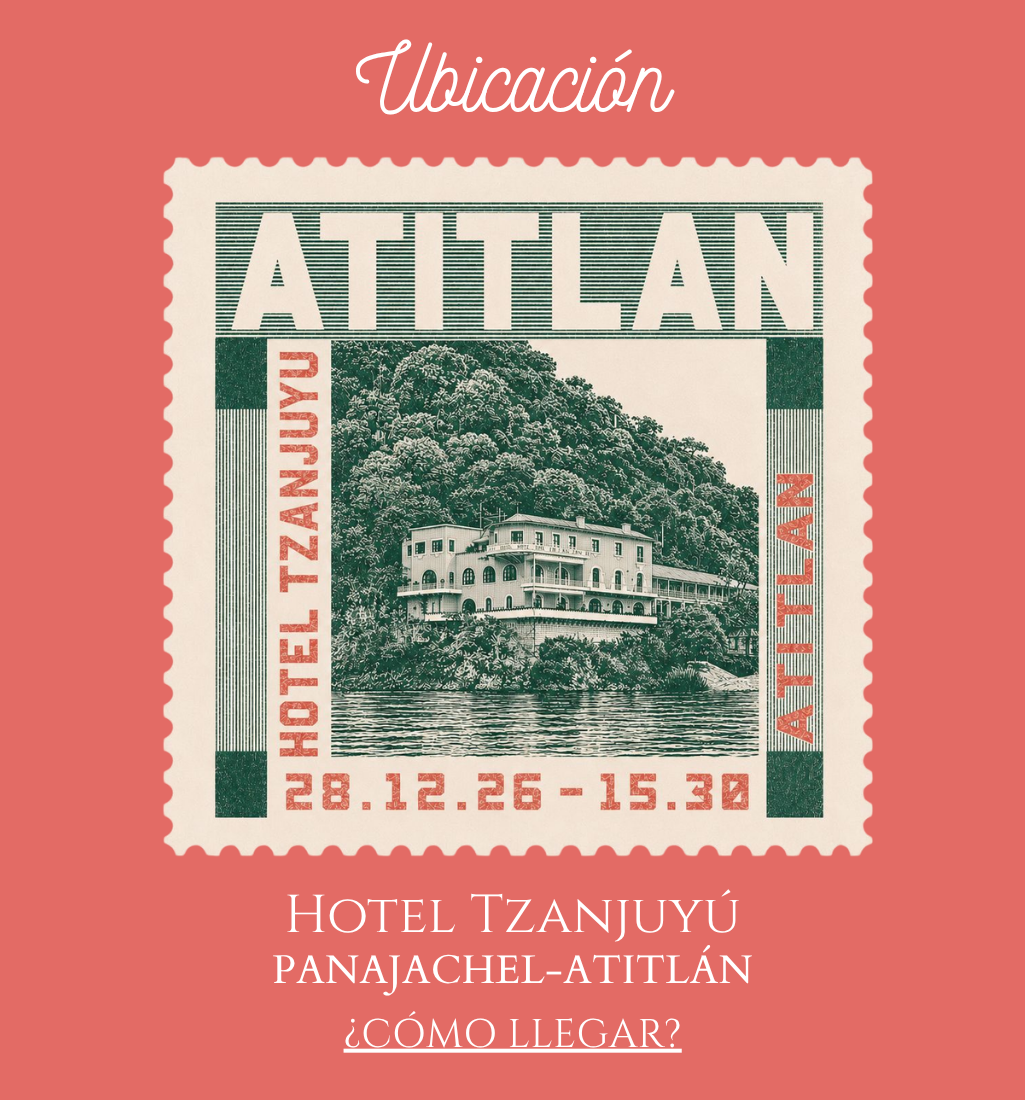
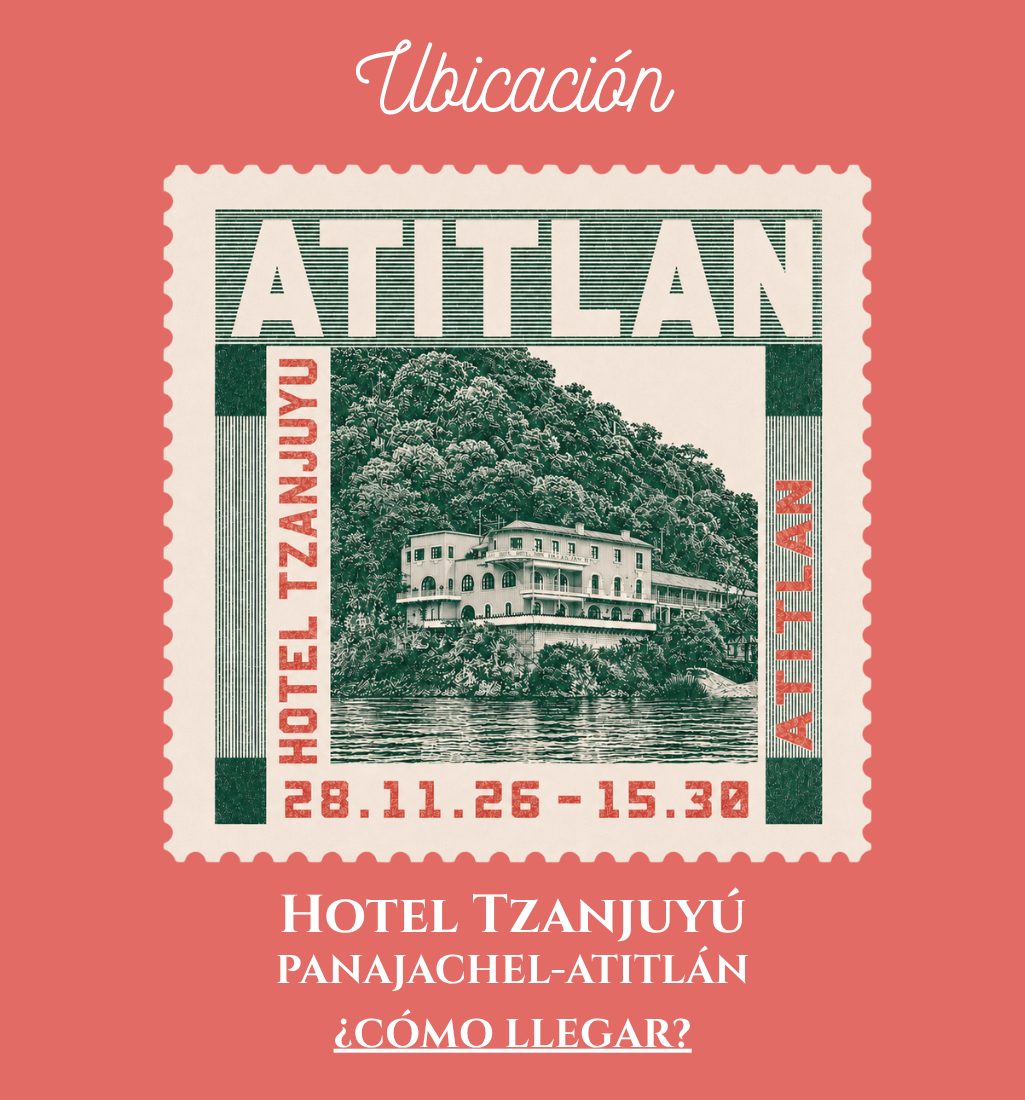
added gift certificates and added transition between dresscode and rsvp modal

Changed region(s): [[0.1561, 0.1236, 0.8429, 0.9582], [0.8429, 0.1545, 0.8741, 0.7727]]

diff --git a/styles.css b/styles.css
@@ -71,7 +71,6 @@ a {
   padding: 0 20px;
   border: 1px solid rgba(247, 217, 143, .85);
   background: rgba(227, 107, 101, .86);
-  box-shadow: 4px 5px 0 rgba(0, 0, 0, .72);
   text-shadow: 2px 2px 0 rgba(0, 0, 0, .55);
 }
 
@@ -196,6 +195,7 @@ a {
 .timeline {
   justify-items: center;
   gap: 28px;
+  padding-bottom: 18px;
 }
 
 .timeline-mobile {
@@ -248,6 +248,7 @@ a {
 .spotify-embed {
   display: block;
   width: min(100%, 520px);
+  height: 96px;
   border: 0;
   border-radius: 12px;
 }
@@ -339,14 +340,21 @@ a {
   position: fixed;
   inset: 0;
   z-index: 10;
-  display: none;
+  display: flex;
   align-items: center;
   justify-content: center;
   padding: 24px;
+  opacity: 0;
+  pointer-events: none;
+  visibility: hidden;
+  transition: opacity .26s ease, visibility 0s linear .26s;
 }
 
 .modal.is-open {
-  display: flex;
+  opacity: 1;
+  pointer-events: auto;
+  visibility: visible;
+  transition-delay: 0s;
 }
 
 .modal-backdrop {
@@ -366,20 +374,61 @@ a {
   background: #f4d7a9;
   border: 4px solid #f7ead1;
   box-shadow: 9px 11px 0 rgba(65, 36, 26, .35);
+  opacity: 0;
+  transform: translateY(14px) scale(.98);
+  transition: opacity .26s ease, transform .26s ease;
+}
+
+.modal.is-open .rsvp-form {
+  opacity: 1;
+  transform: translateY(0) scale(1);
+}
+
+.dress-code-panel,
+.image-modal-panel {
+  position: relative;
+  z-index: 1;
+  display: grid;
+  justify-items: center;
+  gap: 0;
+  width: min(100%, 640px);
+  max-height: calc(100vh - 48px);
+  overflow-y: auto;
+  padding: 0;
+  background: transparent;
+  border: 0;
+  box-shadow: none;
+  opacity: 0;
+  transform: translateY(14px) scale(.98);
+  transition: opacity .26s ease, transform .26s ease;
+}
+
+.modal.is-open .dress-code-panel,
+.modal.is-open .image-modal-panel {
+  opacity: 1;
+  transform: translateY(0) scale(1);
+}
+
+.dress-code-image,
+.image-modal-image {
+  display: block;
+  width: 100%;
+  height: auto;
 }
 
 .rsvp-form h2 {
   margin: 0 42px 6px 0;
   color: var(--rose);
-  font-family: "Fraunces", serif;
+  font-family: "Cinzel", serif;
   font-size: 1.7rem;
+  font-weight: 800;
   text-transform: uppercase;
 }
 
 .rsvp-form label {
   display: grid;
   gap: 8px;
-  font-family: "Fraunces", serif;
+  font-family: "Cinzel", serif;
   font-size: .95rem;
   font-weight: 800;
   text-transform: uppercase;
@@ -438,8 +487,49 @@ a {
   min-height: 1.4em;
   margin: 0;
   color: var(--rose);
+  font-family: "Cinzel", serif;
+  font-weight: 800;
   font-size: .95rem;
   text-align: center;
+}
+
+.loading-dots {
+  position: relative;
+  display: inline-block;
+  width: 1.35em;
+  height: 1.35em;
+  margin-left: .45em;
+  vertical-align: -.32em;
+}
+
+.loading-dots span {
+  position: absolute;
+  top: 50%;
+  left: 50%;
+  width: .25em;
+  height: .25em;
+  margin: -.125em;
+  background: currentColor;
+  border-radius: 50%;
+  animation: loading-orbit 1s linear infinite;
+}
+
+.loading-dots span:nth-child(2) {
+  animation-delay: -.33s;
+}
+
+.loading-dots span:nth-child(3) {
+  animation-delay: -.66s;
+}
+
+@keyframes loading-orbit {
+  from {
+    transform: rotate(0deg) translateX(.52em) rotate(0deg);
+  }
+
+  to {
+    transform: rotate(360deg) translateX(.52em) rotate(-360deg);
+  }
 }
 
 @media (max-width: 820px) {
@@ -462,7 +552,6 @@ a {
     min-height: 38px;
     padding: 0 8px;
     white-space: nowrap;
-    box-shadow: 3px 4px 0 rgba(0, 0, 0, .72);
   }
 
   .nav-star {
@@ -548,6 +637,10 @@ a {
   .place,
   .timeline {
     padding-inline: 0;
+  }
+
+  .timeline {
+    padding-bottom: 12px;
   }
 
   .timeline-desktop {

diff --git a/script.js b/script.js
@@ -1,4 +1,6 @@
 const modal = document.querySelector("[data-rsvp-modal]");
+const dressCodeModal = document.querySelector("[data-dress-code-modal]");
+const giftsModal = document.querySelector("[data-gifts-modal]");
 const form = document.querySelector("[data-rsvp-form]");
 const message = document.querySelector("[data-form-message]");
 const plusOneField = document.querySelector("[data-plus-one-field]");
@@ -21,19 +23,24 @@ function getSheetSafeValue(value) {
 }
 
 function setPlusOneVisibility() {
+  const hasChildrenSelected = allowsPlusOne && childrenCheckbox.checked;
+
   plusOneField.hidden = !allowsPlusOne;
   childrenFields.forEach((field) => {
     field.hidden = !allowsPlusOne;
   });
   companionInput.disabled = !allowsPlusOne;
   childrenCheckbox.disabled = !allowsPlusOne;
+  childrenCount.classList.toggle("is-visible", hasChildrenSelected);
+  childrenInput.disabled = !hasChildrenSelected;
+
+  if (!hasChildrenSelected) {
+    childrenInput.value = "";
+  }
 
   if (!allowsPlusOne) {
     companionInput.value = "";
     childrenCheckbox.checked = false;
-    childrenCount.classList.remove("is-visible");
-    childrenInput.value = "";
-    childrenInput.disabled = true;
   }
 }
 
@@ -52,24 +59,68 @@ function openModal() {
   form.elements.guestName.focus();
 }
 
-function closeModal() {
+function openDressCodeModal() {
+  dressCodeModal.classList.add("is-open");
+  dressCodeModal.setAttribute("aria-hidden", "false");
+}
+
+function closeDressCodeModal() {
+  dressCodeModal.classList.remove("is-open");
+  dressCodeModal.setAttribute("aria-hidden", "true");
+}
+
+function openGiftsModal() {
+  giftsModal.classList.add("is-open");
+  giftsModal.setAttribute("aria-hidden", "false");
+}
+
+function closeGiftsModal() {
+  giftsModal.classList.remove("is-open");
+  giftsModal.setAttribute("aria-hidden", "true");
+}
+
+function setLoadingMessage() {
+  message.innerHTML = `
+    Enviando confirmación
+    <span class="loading-dots" aria-hidden="true">
+      <span></span>
+      <span></span>
+      <span></span>
+    </span>
+  `;
+}
+
+function closeModal({ showDressCode = true } = {}) {
   modal.classList.remove("is-open");
   modal.setAttribute("aria-hidden", "true");
   form.reset();
-  message.textContent = "";
+  message.replaceChildren();
   childrenCount.classList.remove("is-visible");
   childrenInput.disabled = true;
   setPlusOneVisibility();
+
+  if (showDressCode) {
+    window.setTimeout(openDressCodeModal, 280);
+  }
 }
 
 document.querySelector("[data-open-rsvp]").addEventListener("click", openModal);
+document.querySelector("[data-open-gifts]").addEventListener("click", openGiftsModal);
 
 document.querySelectorAll("[data-close-rsvp]").forEach((button) => {
   button.addEventListener("click", closeModal);
 });
 
+document.querySelectorAll("[data-close-dress-code]").forEach((button) => {
+  button.addEventListener("click", closeDressCodeModal);
+});
+
+document.querySelectorAll("[data-close-gifts]").forEach((button) => {
+  button.addEventListener("click", closeGiftsModal);
+});
+
 childrenCheckbox.addEventListener("change", () => {
-  const isChecked = childrenCheckbox.checked;
+  const isChecked = allowsPlusOne && childrenCheckbox.checked;
   childrenCount.classList.toggle("is-visible", isChecked);
   childrenInput.disabled = !isChecked;
 
@@ -80,7 +131,7 @@ childrenCheckbox.addEventListener("change", () => {
 
 form.addEventListener("submit", async (event) => {
   event.preventDefault();
-  message.textContent = "Enviando confirmación...";
+  setLoadingMessage();
 
   const payload = {
     guestName: getCleanValue(form.elements.guestName),
@@ -101,6 +152,16 @@ form.addEventListener("submit", async (event) => {
 document.addEventListener("keydown", (event) => {
   if (event.key === "Escape" && modal.classList.contains("is-open")) {
     closeModal();
+    return;
+  }
+
+  if (event.key === "Escape" && dressCodeModal.classList.contains("is-open")) {
+    closeDressCodeModal();
+    return;
+  }
+
+  if (event.key === "Escape" && giftsModal.classList.contains("is-open")) {
+    closeGiftsModal();
   }
 });
 

diff --git a/index.html b/index.html
@@ -26,7 +26,6 @@
         <a class="detail-image-link" href="https://waze.com/ul/h9fx5vec5w" target="_blank" rel="noopener" aria-label="Abrir ubicación en Waze">
           <img class="detail-image" src="assets/location.png" alt="Lugar: Hotel Tzanjuyú, Panajachel, Sololá">
         </a>
-        <span class="mobile-map-hint">Toca para abrir ubicación en Waze</span>
       </article>
 
       <article class="detail-card timeline" id="itinerario">
@@ -40,7 +39,7 @@
 
       <article class="detail-card gifts">
         <img class="gifts-image" src="assets/regalos.png" alt="Lista de regalos. Su presencia es nuestro mejor regalo. Si desean obsequiarnos algo, pueden hacerlo aquí:">
-        <a href="#" class="button">Ver lista</a>
+        <button class="button" type="button" data-open-gifts>Ver lista</button>
       </article>
     </section>
 
@@ -85,6 +84,24 @@
       <button class="rsvp-button" type="submit">Enviar confirmación</button>
       <p class="form-message" data-form-message role="status"></p>
     </form>
+  </div>
+
+  <div class="modal dress-code-modal" data-dress-code-modal aria-hidden="true">
+    <div class="modal-backdrop" data-close-dress-code></div>
+    <div class="dress-code-panel" role="dialog" aria-modal="true" aria-label="Código de vestimenta">
+      <button class="modal-close" type="button" data-close-dress-code aria-label="Cerrar código de vestimenta">×</button>
+      <img class="dress-code-image" src="assets/women.png" alt="Código de vestimenta para mujeres">
+      <img class="dress-code-image" src="assets/hombres.png" alt="Código de vestimenta para hombres">
+    </div>
+  </div>
+
+  <div class="modal gifts-modal" data-gifts-modal aria-hidden="true">
+    <div class="modal-backdrop" data-close-gifts></div>
+    <div class="image-modal-panel" role="dialog" aria-modal="true" aria-label="Lista de regalos">
+      <button class="modal-close" type="button" data-close-gifts aria-label="Cerrar lista de regalos">×</button>
+      <img class="image-modal-image" src="assets/bodasmax.png" alt="Lista de regalos en Bodas Max">
+      <img class="image-modal-image" src="assets/bodassiman.png" alt="Lista de regalos en Bodas Siman">
+    </div>
   </div>
 
   <script src="script.js"></script>